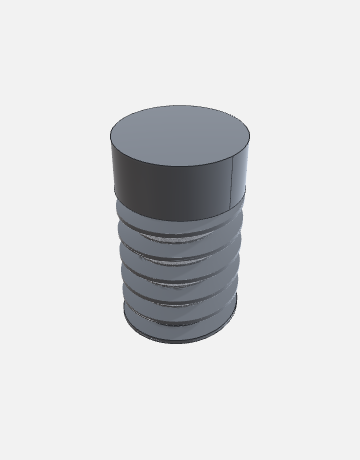
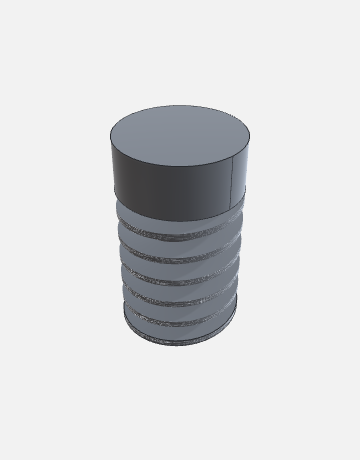
fix(threads): true buttress to DIN 513; finish Whitworth & knuckle (v1.6.3) (#218)
Trues up the last two medium-confidence thread forms and fixes a knuckle
build defect surfaced by a stricter crest-envelope test.

- .buttress → DIN 513: asymmetric 3° load / 30° clearance flanks (33°) at
  depth 0.86777·P (bolt core d3 = d − 2·0.86777·P; verified vs the DIN 513
  table, e.g. S 10×2 → d3 6.528). Was a reconstructed ANSI 7°/45° @ 0.66271·P.
- .whitworth/.bspParallel confirmed at 55° / 0.640327·P, kept as the BS 84
  flat-truncation (crest=root=P/6). A rounded crest makes the deep tooth's
  ruled:false loft spike past nominal (#213), so truncation is the smooth,
  dimensionally-exact form.
- .knuckle external now uses the faceted cut path (crest exact at nominal,
  ~1s) instead of the rounded direct loft (~28s + ~6% crest bulge). General
  guard: profiles with >2 straight flanks (rounded) skip the smooth direct
  build. Add ThreadProfile.rounded() helper (shared by knuckle).

Tests: assert crest envelope via mesh max-radius (boundingBoxOptimal both
over- and under-reports for BSpline threads); split ThreadFormsTests into
smooth (piecewise-linear) + faceted (knuckle) external. All 36 thread tests
pass. Buttress cookbook figure re-rendered.

Pull request: fix(threads): true buttress to DIN 513; finish Whitworth & knuckle (v1.6.3)
Trues up the last two medium-confidence thread forms (buttress, Whitworth) and fixes a knuckle build defect that a stricter crest-envelope test surfaced.

## Buttress → DIN 513
Asymmetric **3° load / 30° clearance** flanks (33° total) at depth **0.86777·P**, so the bolt core `d3 = d − 2·0.86777·P`. Verified against the DIN 513 dimension table (e.g. S 10×2 → d3 = 6.528; S 50×8 and S 200×18 also give 0.8678·P). Previously a reconstructed ANSI 7°/45° profile at 0.66271·P, which matched no German standard. (The "45°" reference is DIN 2781, a *different* hydraulic-press buttress — 3°/45°, 0.575·P — not used here.)

## Whitworth / BSP
Confirmed at the correct 55° / **0.640327·P** and kept as the standard **BS 84 flat-truncation** (crest = root flat = P/6). A truly rounded crest makes the deep tooth's `ruled:false` loft spike past the nominal radius (a thin outward flap — #213), so the truncation is the form that builds smooth *and* dimensionally exact.

## Knuckle
External build now routes through the **faceted cut path** (crest exactly at nominal, ~1 s) instead of the rounded-crest direct loft, which was both slow (~28 s) and bulged ~6% past the crest. General guard added: profiles with more than two straight flanks (i.e. rounded, many fillet chords) skip the smooth direct build. New shared `ThreadProfile.rounded()` helper.

## Tests
[…]

diff --git a/Sources/OCCTSwift/ThreadFeatures.swift b/Sources/OCCTSwift/ThreadFeatures.swift
@@ -126,8 +126,36 @@ public struct ThreadProfile: Sendable, Hashable, Codable {
                               rootFlatFraction: Double = 1.0 / 4) -> ThreadProfile {
         trapezoid(crestFlatFraction: crestFlatFraction, rootFlatFraction: rootFlatFraction)
     }
-    /// Whitworth / BSP 55° (crest & root truncated — a flat-truncation approximation of the rounded form).
-    public static let whitworth55 = trapezoid(crestFlatFraction: 0.1666, rootFlatFraction: 0.1666)
+    /// A rounded thread: straight `halfFlankDeg` flanks with circular-arc crest & root (radius solved
+    /// for tangency), plus a small crest/root land so the smooth direct build can attach a crest. `h`
+    /// is the depth as a fraction of pitch (must equal the form's `cutDepth / P`).
+    static func rounded(h: Double, halfFlankDeg: Double, flat: Double = 0.05, samples: Int = 4) -> ThreadProfile {
+        let beta = halfFlankDeg * Double.pi / 180
+        let phiMax = .pi / 2 - beta                              // fillet sweep: flat-tangent → flank
+        let s = sin(phiMax), cc = 1 - cos(phiMax)
+        let r = (0.5 - flat - h * tan(beta)) / (2 * s - 2 * cc * tan(beta))   // tangent fillet radius (cf = rf = flat)
+        func df(_ depthP: Double) -> Double { depthP / h }       // pitch-unit depth → 0…1 fraction
+        var left: [Vertex] = [.init(axial: 0, depth: 1), .init(axial: flat / 2, depth: 1)]   // root flat
+        for i in 1...samples {                                   // root fillet (concave)
+            let psi = phiMax * Double(i) / Double(samples)
+            left.append(.init(axial: flat / 2 + r * sin(psi), depth: df(h - r * (1 - cos(psi)))))
+        }
+        for i in 0...samples {                                   // flank, then crest fillet (convex)
+            let psi = phiMax * Double(samples - i) / Double(samples)
+            left.append(.init(axial: (0.5 - flat / 2) - r * sin(psi), depth: df(r * (1 - cos(psi)))))
+        }
+        left.append(.init(axial: 0.5, depth: 0))                 // crest flat to centre
+        var vs = left
+        for i in stride(from: left.count - 2, through: 0, by: -1) {
+            vs.append(.init(axial: 1 - left[i].axial, depth: left[i].depth))
+        }
+        return ThreadProfile(trusted: vs)
+    }
+    /// Whitworth / BSW / BSP 55° — `cutDepth = 0.640327·P`. BS 84 rounds the outer/inner sixth of the
+    /// tooth; this is the standard flat-truncation of that form (crest flat = root flat = P/6, the straight
+    /// 55° flank spanning the middle two-thirds). A truly *rounded* crest makes the deep tooth's `ruled:false`
+    /// loft spike past the nominal radius (OCCTSwift #213), so the truncation is what builds smooth.
+    public static let whitworth55 = trapezoid(crestFlatFraction: 1.0 / 6, rootFlatFraction: 1.0 / 6)
     /// ACME 29° general-purpose (crest flat = root flat = 0.3707·P at `cutDepth = P/2`).
     public static let acme29 = trapezoid(crestFlatFraction: 0.3707, rootFlatFraction: 0.3707)
     /// ISO metric trapezoidal "Tr" 30° (crest flat = root flat = 0.366·P at `cutDepth = P/2`).
@@ -138,41 +166,20 @@ public struct ThreadProfile: Sendable, Hashable, Codable {
         .init(axial: 0.25, depth: 0), .init(axial: 0.75, depth: 0),
         .init(axial: 0.75, depth: 1), .init(axial: 1,    depth: 1),
     ])
-    /// Buttress 7° load / 45° trailing (asymmetric), `cutDepth = 0.66271·P`.
-    public static let buttress7x45 = ThreadProfile(trusted: [
-        .init(axial: 0,      depth: 1), .init(axial: 0.046,  depth: 1),
-        .init(axial: 0.1274, depth: 0), .init(axial: 0.2912, depth: 0),
-        .init(axial: 0.9539, depth: 1), .init(axial: 1,      depth: 1),
+    /// Buttress (DIN 513) — asymmetric 3° load flank / 30° clearance flank (33° total), `cutDepth = 0.86777·P`.
+    /// (Bolt core d3 = d − 2·0.86777·P, verified against the DIN 513 table, e.g. S 10×2 → d3 = 6.528.)
+    /// The near-radial load flank rises steeply to the crest; the 30° clearance flank falls back to the root.
+    public static let buttress = ThreadProfile(trusted: [
+        .init(axial: 0,      depth: 1), .init(axial: 0.0968, depth: 1),   // root flat (half)
+        .init(axial: 0.1422, depth: 0),                                   // 3° load flank → crest
+        .init(axial: 0.4022, depth: 0),                                   // crest flat
+        .init(axial: 0.9032, depth: 1),                                   // 30° clearance flank → root
+        .init(axial: 1,      depth: 1),                                   // root flat (half)
     ])
     /// Knuckle / round thread (DIN 405): 30°-included (15° per side) flanks with circular-arc rounded
     /// crest and root, at the standard depth `0.55·P` (bolt minor d3 = d − 1.1·P, verified against the
-    /// DIN 405 dimension table). The rounding radius is solved so the fillets are tangent to both the
-    /// flank and a small crest/root land; the small lands let the smooth direct build attach a crest.
-    public static let knuckle: ThreadProfile = {
-        let h = 0.55                          // thread depth as a fraction of pitch (DIN 405)
-        let cf = 0.06, rf = 0.06              // small crest / root flats (fraction of pitch)
-        let beta = 15.0 * Double.pi / 180     // half flank angle from the radial (30° included)
-        let phiMax = .pi / 2 - beta           // fillet sweep, flat-tangent (90°) → flank (75°)
-        let s = sin(phiMax), c = 1 - cos(phiMax)
-        let r = (0.5 - cf / 2 - rf / 2 - h * tan(beta)) / (2 * s - 2 * c * tan(beta))  // tangent radius
-        func df(_ depthP: Double) -> Double { depthP / h }   // depth in pitch units → 0…1 fraction
-        let m = 4                             // samples per fillet
-        var left: [Vertex] = [.init(axial: 0, depth: 1), .init(axial: rf / 2, depth: 1)]   // root flat
-        for i in 1...m {                      // root fillet (concave), tangent to the root flat
-            let psi = phiMax * Double(i) / Double(m)
-            left.append(.init(axial: rf / 2 + r * sin(psi), depth: df(h - r * (1 - cos(psi)))))
-        }
-        for i in 0...m {                      // flank (first→second vertex) then crest fillet (convex)
-            let psi = phiMax * Double(m - i) / Double(m)
-            left.append(.init(axial: (0.5 - cf / 2) - r * sin(psi), depth: df(r * (1 - cos(psi)))))
-        }
-        left.append(.init(axial: 0.5, depth: 0))   // crest flat to the centre
-        var vs = left
-        for i in stride(from: left.count - 2, through: 0, by: -1) {   // mirror to the next root
-            vs.append(.init(axial: 1 - left[i].axial, depth: left[i].depth))
-        }
-        return ThreadProfile(trusted: vs)
-    }()
+    /// DIN 405 dimension table). Small crest/root lands are kept so the smooth direct build can attach a crest.
+    public static let knuckle = rounded(h: 0.55, halfFlankDeg: 15, flat: 0.06)
 }
 
 /// How a thread terminates at its ends.
@@ -225,7 +232,7 @@ public struct ThreadSpec: Sendable, Hashable, Codable {
         case .acme:                                 return .acme29
         case .trapezoidal:                          return .trapezoidalMetric30
         case .square:                               return .square
-        case .buttress:                             return .buttress7x45
+        case .buttress:                             return .buttress
         case .knuckle:                              return .knuckle
         case .custom:                               return customProfile ?? .iso60V()
         }
@@ -239,7 +246,7 @@ public struct ThreadSpec: Sendable, Hashable, Codable {
         case .whitworth, .bspParallel, .bsptTapered:  return 0.640327 * pitch
         case .acme, .trapezoidal, .square:            return 0.5 * pitch
         case .knuckle:                                return 0.55 * pitch       // DIN 405: d3 = d − 1.1·P
-        case .buttress:                               return 0.66271 * pitch
+        case .buttress:                               return 0.86777 * pitch    // DIN 513: d3 = d − 2·0.86777·P
         case .custom:                                 return 0.5 * pitch
         }
     }
@@ -538,6 +545,11 @@ extension Shape {
         // profiles (a pointed crest) fall back to the boolean cut path.
         let segs = profile.segments
         guard let crestIndex = segs.firstIndex(where: { $0.kind == .flat && $0.a.depth < 1e-6 }) else { return nil }
+        // Rounded profiles (knuckle/Whitworth-rounded) decompose into many small fillet chords. A
+        // `ruled:false` loft of those over a helix balloons radially past the nominal crest (a thin
+        // outward flap — OCCTSwift #213) and is slow, so route piecewise-curved profiles to the faceted
+        // cut path. Piecewise-linear forms (iso/acme/trapezoidal/square/buttress) have ≤2 straight flanks.
+        guard segs.filter({ $0.kind == .flank }).count <= 2 else { return nil }
 
         let a = simd_normalize(axis)
         let x = simd_normalize(radial0)

diff --git a/Tests/OCCTThreadTests/ThreadFormsTests.swift b/Tests/OCCTThreadTests/ThreadFormsTests.swift
@@ -7,13 +7,14 @@ import simd
 @Suite("Thread forms — Whitworth/BSP, ACME, trapezoidal, square, buttress, knuckle, taper, custom")
 struct ThreadFormsTests {
 
-    // Parallel forms that take the smooth direct external build.
-    static let parallelForms: [ThreadForm] = [
-        .iso68, .unified, .whitworth, .bspParallel, .acme, .trapezoidal, .square, .buttress, .knuckle,
+    // Piecewise-linear parallel forms that take the smooth direct external build (≤2 straight flanks,
+    // flat crest). Rounded forms (knuckle) route to the faceted cut path instead — see roundedExternalForm.
+    static let smoothForms: [ThreadForm] = [
+        .iso68, .unified, .whitworth, .bspParallel, .acme, .trapezoidal, .square, .buttress,
     ]
 
-    @Test("each parallel form builds a valid, smooth external thread",
-          arguments: ThreadFormsTests.parallelForms)
+    @Test("each piecewise-linear form builds a valid, smooth external thread",
+          arguments: ThreadFormsTests.smoothForms)
     func externalForm(_ form: ThreadForm) {
         guard let shank = Shape.cylinder(radius: 6, height: 24) else { Issue.record("shank"); return }
         let spec = ThreadSpec(form: form, nominalDiameter: 12, pitch: 2.0)
@@ -22,16 +23,43 @@ struct ThreadFormsTests {
             Issue.record("\(form) returned nil"); return
         }
         #expect(t.isValid)
-        // crest sits at the nominal radius (optimal box — the smooth BSpline default box overshoots).
-        if let bb = t.boundingBoxOptimal() {
-            #expect(bb.max.x <= 6.0 + 0.05)
+        // Crest sits at the nominal radius. The optimal Bnd_Box pole-inflates for these BSpline thread
+        // surfaces (OCCTSwift #213), so measure the actual meshed surface envelope instead.
+        if let mesh = t.mesh(linearDeflection: 0.05) {
+            var maxR = Float(0)
+            for v in mesh.vertices {
+                let r = (v.x * v.x + v.y * v.y).squareRoot()
+                if r > maxR { maxR = r }
+            }
+            #expect(maxR <= 6.0 + 0.1)
         }
         if let v0 = shank.volume, let v1 = t.volume {
             #expect(v1 < v0)            // removed a thread's worth of material
             #expect(v1 > v0 * 0.5)      // but the rod is still substantially there
         }
-        // Smooth: a handful of faces, not hundreds of facets (knuckle's rounding adds a few).
+        // Smooth: a handful of faces, not hundreds of facets.
         #expect(t.subShapes(ofType: .face).count < 40)
+    }
+
+    @Test("rounded forms (knuckle) build a valid external thread via the faceted cut path")
+    func roundedExternalForm() {
+        guard let shank = Shape.cylinder(radius: 6, height: 24) else { Issue.record("shank"); return }
+        let spec = ThreadSpec(form: .knuckle, nominalDiameter: 12, pitch: 2.0)
+        guard let t = shank.threadedShaft(axisOrigin: .zero, axisDirection: SIMD3(0, 0, 1),
+                                          spec: spec, length: 18) else {
+            Issue.record("knuckle returned nil"); return
+        }
+        #expect(t.isValid)
+        // The faceted cut path keeps the crest exactly at the nominal radius (no ruled:false bulge).
+        if let mesh = t.mesh(linearDeflection: 0.05) {
+            var maxR = Float(0)
+            for v in mesh.vertices {
+                let r = (v.x * v.x + v.y * v.y).squareRoot()
+                if r > maxR { maxR = r }
+            }
+            #expect(maxR <= 6.0 + 0.05)
+        }
+        if let v0 = shank.volume, let v1 = t.volume { #expect(v1 < v0); #expect(v1 > v0 * 0.5) }
     }
 
     @Test("each form builds a valid internal thread (cut path)",
@@ -102,6 +130,12 @@ struct ThreadFormsTests {
                     - p * sqrt(3) / 2 * 5 / 8) < 1e-9)
         #expect(abs(ThreadSpec(form: .acme, nominalDiameter: 12, pitch: p).cutDepth - 0.5 * p) < 1e-9)
         #expect(abs(ThreadSpec(form: .whitworth, nominalDiameter: 12, pitch: p).cutDepth - 0.640327 * p) < 1e-6)
+        #expect(ThreadProfile.whitworth55.hasCrestFlat)   // small land kept for the smooth build
+        // DIN 513 buttress: depth 0.86777·P → core d3 = d − 2·0.86777·P (matches the standard table:
+        // S 10 × 2 → d3 = 6.528).
+        let din513 = ThreadSpec(form: .buttress, nominalDiameter: 10, pitch: 2.0)
+        #expect(abs(din513.cutDepth - 0.86777 * 2.0) < 1e-9)
+        #expect(abs(din513.minorDiameter - 6.528) < 2e-3)
         // DIN 405 knuckle: depth 0.55·P → minor d3 = d − 1.1·P (matches the standard table:
         // Rd 8 × 1/10", d = 8.254, P = 2.540 → d3 = 5.460).
         let din405 = ThreadSpec(form: .knuckle, nominalDiameter: 8.254, pitch: 2.540)

diff --git a/docs/CHANGELOG.md b/docs/CHANGELOG.md
@@ -7,13 +7,33 @@ nav_order: 4
 
 All notable changes to OCCTSwift.
 
-## Current: v1.6.2
+## Current: v1.6.3
 
 **4,294 wrapped operations | macOS / iOS / visionOS / tvOS | OCCT 8.0.0**
 
 ---
 
 ## Release History
+
+### v1.6.3 (June 2026) — buttress trued to DIN 513; Whitworth & knuckle finished
+
+**PATCH — geometry corrections, non-breaking.** The last two medium-confidence thread forms are
+trued to their standards:
+
+- **`.buttress` → DIN 513** (German *Sägengewinde*): asymmetric **3° load / 30° clearance** flanks
+  (33° total) at depth **0.86777·P** (so the bolt core `d3 = d − 2·0.86777·P`, verified against the
+  DIN 513 table — e.g. S 10 × 2 → d3 = 6.528). Previously it used a reconstructed ANSI 7°/45° profile
+  at 0.66271·P, which matched no German standard.
+- **`.whitworth` / `.bspParallel`** confirmed at the correct 55° / **0.640327·P** and kept as the
+  standard BS 84 **flat-truncation** (crest = root flat = P/6). A fully *rounded* crest makes the deep
+  tooth's `ruled:false` loft spike past the nominal radius (a thin outward flap, OCCTSwift #213), so
+  the truncation is the form that builds smooth and dimensionally exact.
+- **`.knuckle`** now routes through the **faceted cut path** for the external build. The previous
+  rounded-crest direct loft was both slow (~28 s) and bulged ~6% past the nominal crest; the cut path
+  keeps the crest exactly at the nominal radius and builds in ~1 s. (Rounded profiles — those with
+  more than two straight flanks — are now detected and sent to the cut path generally.)
+
+Buttress cookbook figure re-rendered with the DIN 513 profile.
 
 ### v1.6.2 (June 2026) — knuckle thread trued to DIN 405
 

diff --git a/docs/guides/cookbook/threads.md b/docs/guides/cookbook/threads.md
@@ -86,8 +86,8 @@ m12.halfFlankAngle     // π/6 (30° → 60° included)
 | Whitworth (BSW) / BSP parallel (G) | `.whitworth` / `.bspParallel` | 55° |
 | ACME / metric trapezoidal (Tr) | `.acme` / `.trapezoidal` | 29° / 30° trapezoid (lead screws) |
 | Square | `.square` | 0° walls |
-| Buttress | `.buttress` | asymmetric 7° / 45° |
-| Knuckle / round | `.knuckle` | rounded |
+| Buttress (DIN 513) | `.buttress` | asymmetric 3° / 30° |
+| Knuckle / round (DIN 405) | `.knuckle` | 30° rounded |
 | NPT / BSPT (tapered pipe) | `.nptTapered` / `.bsptTapered` | 60° / 55° on a 1:16 taper |
 
 ```swift
@@ -101,7 +101,7 @@ let leadScrew = stock.threadedShaft(axisOrigin: .zero, axisDirection: SIMD3(0, 0
 <tr>
 <td align="center"><model-viewer src="models/threads-acme.glb" poster="images/threads-acme.png" camera-controls auto-rotate environment-image="neutral" exposure="1.1" shadow-intensity="1" style="width:220px;height:280px;background:#eef1f5;border-radius:6px"></model-viewer><br><code>.acme</code> (29°)</td>
 <td align="center"><model-viewer src="models/threads-square.glb" poster="images/threads-square.png" camera-controls auto-rotate environment-image="neutral" exposure="1.1" shadow-intensity="1" style="width:220px;height:280px;background:#eef1f5;border-radius:6px"></model-viewer><br><code>.square</code></td>
-<td align="center"><model-viewer src="models/threads-buttress.glb" poster="images/threads-buttress.png" camera-controls auto-rotate environment-image="neutral" exposure="1.1" shadow-intensity="1" style="width:220px;height:280px;background:#eef1f5;border-radius:6px"></model-viewer><br><code>.buttress</code> (7°/45°)</td>
+<td align="center"><model-viewer src="models/threads-buttress.glb" poster="images/threads-buttress.png" camera-controls auto-rotate environment-image="neutral" exposure="1.1" shadow-intensity="1" style="width:220px;height:280px;background:#eef1f5;border-radius:6px"></model-viewer><br><code>.buttress</code> (DIN 513, 3°/30°)</td>
 </tr>
 </table>
 